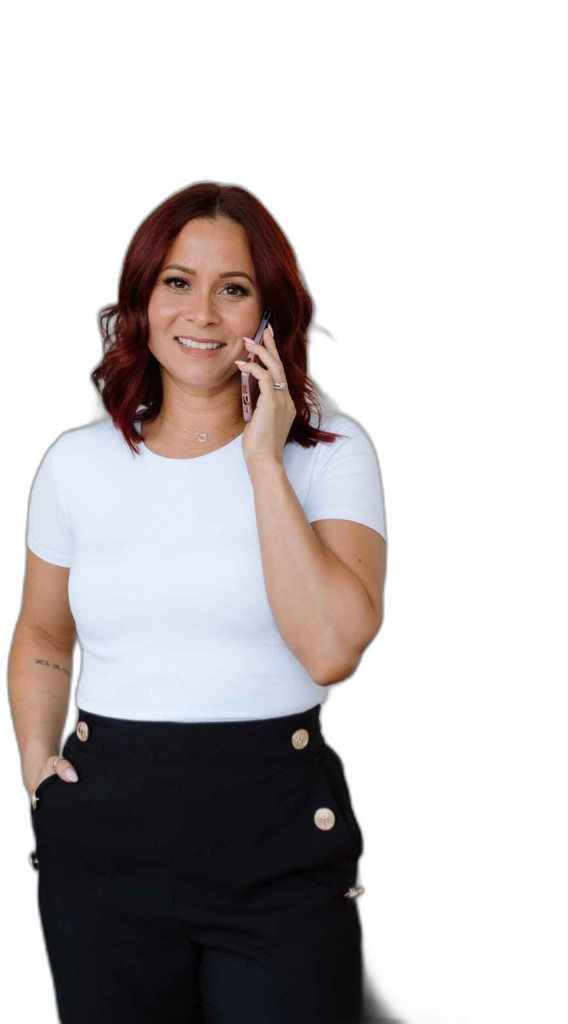
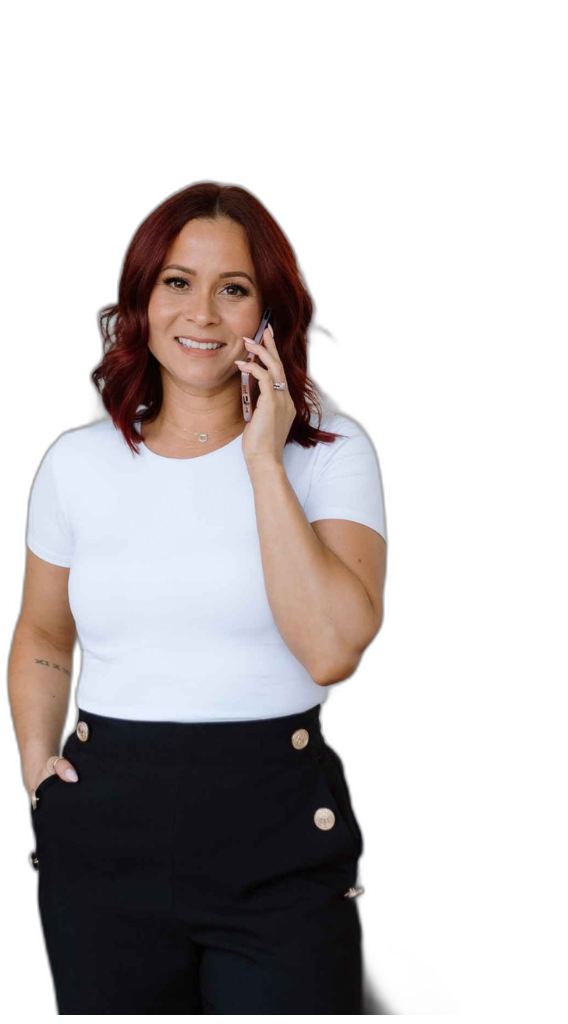
feat: revamp hero layout and soften about page gradient
- Move hero image into flex flow for centered text+image layout
- Switch to gretta-hero-nobg.png, increase image size
- Update headline to "Real Estate That Feels Like Home."
- Remove white gradient overlay on hero image
- Clean dark specks from hero-cropped image
- Soften about page gradient (40% → 20% mid opacity)

Changed region(s): [[0.0898, 0.9688, 0.7183, 1.0]]

diff --git a/app/_components/HeroSection.tsx b/app/_components/HeroSection.tsx
@@ -5,23 +5,9 @@ import { AnimatedSection } from '@/components/ui/AnimatedSection'
 export function HeroSection() {
     return (
         <section className="relative w-full bg-white overflow-hidden lg:h-screen lg:min-h-[700px]">
-            {/* Desktop Image — absolutely positioned, right side, left-aligned within container */}
-            <div className="hidden lg:block absolute right-0 bottom-0 w-[42%] h-[calc(100vh-40px)]">
-                <Image
-                    src="/images/gretta-hero-cropped.png"
-                    alt="Gretta Hughes - Cambridge & Waterloo Region REALTOR"
-                    fill
-                    priority
-                    sizes="42vw"
-                    className="object-contain object-left-bottom"
-                />
-                {/* Left fade for smooth transition from text */}
-                <div className="absolute inset-y-0 left-0 w-16 bg-gradient-to-r from-white to-transparent pointer-events-none"></div>
-            </div>
-
-            <div className="max-w-7xl 2xl:max-w-[90rem] mx-auto px-4 sm:px-6 lg:px-12 2xl:px-20 w-full h-full">
+            <div className="max-w-7xl 2xl:max-w-[90rem] mx-auto px-4 sm:px-6 lg:px-28 2xl:px-36 w-full h-full">
                 <div className="flex flex-col lg:flex-row items-end h-full pt-[90px] lg:pt-[124px]">
-                    {/* Main Content Area — pushed to the right */}
+                    {/* Text Content */}
                     <div className="w-full lg:w-[55%] flex flex-col z-10 pt-8 lg:pt-0 lg:justify-center lg:self-stretch">
                         {/* Mobile: side-by-side heading + image */}
                         <div className="flex flex-row items-stretch lg:block w-full mb-6 lg:mb-0">
@@ -32,8 +18,8 @@ export function HeroSection() {
                                 </p>
 
                                 <h1 className="font-display text-[2.5rem] leading-[1.05] sm:text-5xl lg:text-6xl 2xl:text-7xl text-brand-text mb-4 lg:mb-5 text-balance">
-                                    Your Next Home Is <br className="hidden md:block" />
-                                    <span className="italic">Already Listed.</span>
+                                    Real Estate That <br className="hidden md:block" />
+                                    <span className="italic">Feels Like Home.</span>
                                 </h1>
 
                                 <div className="text-brand-text-muted text-[13px] sm:text-sm lg:text-lg 2xl:text-xl leading-relaxed font-light text-pretty space-y-4 lg:space-y-5">
@@ -53,7 +39,7 @@ export function HeroSection() {
                             {/* Mobile Image */}
                             <div className="w-[40%] relative lg:hidden h-[40vh] min-h-[250px] self-end z-0">
                                 <Image
-                                    src="/images/gretta-hero-cropped.png"
+                                    src="/images/gretta-hero-nobg.png"
                                     alt="Gretta Hughes - Cambridge & Waterloo Region REALTOR"
                                     fill
                                     priority
@@ -86,6 +72,18 @@ export function HeroSection() {
                                 <span className="text-brand-accent">✓</span> Cambridge Community Roots · Experienced. Professional.
                             </span>
                         </div>
+                    </div>
+
+                    {/* Desktop Image — in flow, right side */}
+                    <div className="hidden lg:block relative w-[53%] h-[calc(100vh-60px)] self-end">
+                        <Image
+                            src="/images/gretta-hero-nobg.png"
+                            alt="Gretta Hughes - Cambridge & Waterloo Region REALTOR"
+                            fill
+                            priority
+                            sizes="45vw"
+                            className="object-contain object-left-bottom"
+                        />
                     </div>
                 </div>
             </div>

diff --git a/app/about/page.tsx b/app/about/page.tsx
@@ -23,7 +23,7 @@ export default function AboutPage() {
                     sizes="100vw"
                     className="object-contain object-bottom saturate-[1.15]"
                 />
-                <div className="absolute inset-0 bg-gradient-to-t from-brand-bg via-brand-bg/40 to-transparent"></div>
+                <div className="absolute inset-0 bg-gradient-to-t from-brand-bg via-brand-bg/20 to-transparent"></div>
 
                 <div className="relative z-10 text-center px-4 flex-1 flex items-end justify-center w-full pb-16">
                     <h1 className="font-display text-5xl md:text-7xl text-brand-text">
